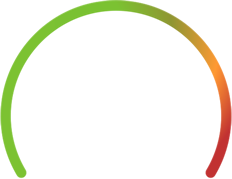
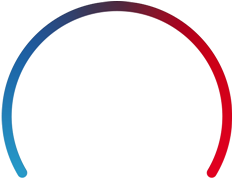
New BT images, fixing links in core text, smaller fixes

Changed region(s): [[0.0, 0.0, 1.0, 1.0]]

diff --git a/iSpeedTest/iSpeedTest/STInfoViewController.m b/iSpeedTest/iSpeedTest/STInfoViewController.m
@@ -7,7 +7,6 @@
 //
 
 #import "STInfoViewController.h"
-#import "FTCoreTextView.h"
 
 
 @interface STInfoViewController ()
@@ -58,14 +57,21 @@
     
     NSMutableArray *arr = [NSMutableArray array];
     
-    UIBarButtonItem *item = [[UIBarButtonItem alloc] initWithTitle:@"Close" style:UIBarButtonItemStyleBordered target:self action:@selector(close)];
+    UIBarButtonItem *item = [[UIBarButtonItem alloc] initWithTitle:NSLocalizedString(@"Close", @"") style:UIBarButtonItemStyleBordered target:self action:@selector(close)];
     [self applyTextEffectsOnBarButtonItem:item];
     [arr addObject:item];
     
     item = [[UIBarButtonItem alloc] initWithBarButtonSystemItem:UIBarButtonSystemItemFlexibleSpace target:nil action:nil];
     [arr addObject:item];
     
-    item = [[UIBarButtonItem alloc] initWithTitle:@"Web" style:UIBarButtonItemStyleBordered target:self action:@selector(openWebsite)];
+    item = [[UIBarButtonItem alloc] initWithTitle:NSLocalizedString(@"About", @"") style:UIBarButtonItemStylePlain target:nil action:nil];
+    [item setTitleTextAttributes:[NSDictionary dictionaryWithObjectsAndKeys:[UIColor whiteColor], UITextAttributeTextColor, [NSValue valueWithUIOffset:UIOffsetMake(1, 1)], UITextAttributeTextShadowOffset, nil] forState:UIControlStateNormal];
+    [arr addObject:item];
+    
+    item = [[UIBarButtonItem alloc] initWithBarButtonSystemItem:UIBarButtonSystemItemFlexibleSpace target:nil action:nil];
+    [arr addObject:item];
+    
+    item = [[UIBarButtonItem alloc] initWithTitle:NSLocalizedString(@"Web", @"") style:UIBarButtonItemStyleBordered target:self action:@selector(openWebsite)];
     [self applyTextEffectsOnBarButtonItem:item];
     [arr addObject:item];
     
@@ -84,6 +90,7 @@
     r.origin.x += 10;
     r.size.width -= 20;
     _coreTextView = [[FTCoreTextView alloc] initWithFrame:r];
+    [_coreTextView setDelegate:self];
     [_coreTextView setBackgroundColor:[UIColor clearColor]];
     [_scrollView addSubview:_coreTextView];
     
@@ -118,6 +125,14 @@
     [self createMainView];
     [self createTopBar];
     [self createCoreTextView];
+}
+
+#pragma mark Core text delegate method
+
+- (void)coreTextView:(FTCoreTextView *)coreTextView receivedTouchOnData:(NSDictionary *)data {
+    if ([data objectForKey:@"url"]) {
+        [[UIApplication sharedApplication] openURL:[data objectForKey:@"url"]];
+    }
 }
 
 #pragma mark Actions

diff --git a/iSpeedTest/iSpeedTest/STInfoViewController.h b/iSpeedTest/iSpeedTest/STInfoViewController.h
@@ -7,7 +7,9 @@
 //
 
 #import "STViewController.h"
+#import "FTCoreTextView.h"
 
-@interface STInfoViewController : STViewController
+
+@interface STInfoViewController : STViewController <FTCoreTextViewDelegate>
 
 @end

diff --git a/Bundles/BT/Config/STConfig.m b/Bundles/BT/Config/STConfig.m
@@ -27,7 +27,7 @@
 }
 
 + (NSString *)developerUrl {
-    return @"http://www.fuerteint.com/?source=BTSpeed";
+    return @"http://www.bt.com/?source=BTSpeed-iPhone-App";
 }
 
 + (NSString *)appSqlFileName {
